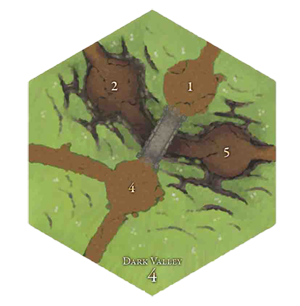
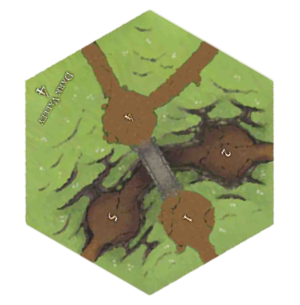
fixed the map
Corrected 2 tiles and created a JLabel array and a function that aligns
the map tiles

diff --git a/Code/src/View/GUI.java b/Code/src/View/GUI.java
@@ -33,6 +33,8 @@ public class GUI implements MouseListener{
 	public static JLabel L_oak_woods = new JLabel();
 	public static JLabel L_bad_valley = new JLabel();
 	public static JLabel L_borderland = new JLabel();
+	public JLabel[] mapTiles;
+	int tileCount;
 	
 	final int x = 125;
 	final int y = 215;
@@ -49,28 +51,39 @@ public class GUI implements MouseListener{
 	//constructor, called in player.java
 	public GUI()
 	{
-		Dimension screenSize = Toolkit.getDefaultToolkit().getScreenSize();
-		ImageIcon cliff = new ImageIcon("res/tiles/cliff.png");
-		ImageIcon ledge = new ImageIcon("res/tiles/ledges.png");
-		ImageIcon crag = new ImageIcon("res/tiles/crag.png");
-		ImageIcon evil_valley = new ImageIcon("res/tiles/evil_valley.png");
-		ImageIcon high_pass = new ImageIcon("res/tiles/high_pass.png");
-		ImageIcon cavern = new ImageIcon("res/tiles/cavern.png");
-		ImageIcon mountain = new ImageIcon("res/tiles/mountain.png");
-		ImageIcon pine_woods = new ImageIcon("res/tiles/pine_woods.png");
-		ImageIcon caves = new ImageIcon("res/tiles/caves.png");
-		ImageIcon ruins = new ImageIcon("res/tiles/ruins.png");
-		ImageIcon linden_woods = new ImageIcon("res/tiles/linden_woods.png");
-		ImageIcon awful_valley = new ImageIcon("res/tiles/awful_valley.png");
-		ImageIcon nut_woods = new ImageIcon("res/tiles/nut_woods.png");
-		ImageIcon curst_valley = new ImageIcon("res/tiles/curst_valley.png");
-		ImageIcon dark_valley = new ImageIcon("res/tiles/dark_valley.png");
-		ImageIcon deep_woods = new ImageIcon("res/tiles/deep_woods.png");
-		ImageIcon maple_woods = new ImageIcon("res/tiles/maple_woods.png");
-		ImageIcon oak_woods = new ImageIcon("res/tiles/oak_woods.png");
-		ImageIcon bad_valley = new ImageIcon("res/tiles/oak_woods.png");
-		ImageIcon borderland = new ImageIcon("res/tiles/borderland.png");
+		tileCount = 0;
+		mapTiles = new JLabel[20];
+		//1st row
+		tileBuilder("res/tiles/cliff.png", 2, 0);
+		//second row
+		tileBuilder("res/tiles/evil_valley.png", 1, 1);
+		tileBuilder("res/tiles/ledges.png", 3, 1);
+		tileBuilder("res/tiles/crag.png", 5, 1);
+		tileBuilder("res/tiles/dark_valley.png", 7, 1);
+		//third row
+		tileBuilder("res/tiles/high_pass.png", 0, 2);
+		tileBuilder("res/tiles/borderland.png", 2, 2);
+		tileBuilder("res/tiles/oak_woods.png", 4, 2);
+		tileBuilder("res/tiles/deep_woods.png", 6, 2);
+		tileBuilder("res/tiles/curst_valley.png", 8, 2);
+		//forth row
+		tileBuilder("res/tiles/cavern.png", 1, 3);
+		tileBuilder("res/tiles/bad_valley.png", 3, 3);
+		tileBuilder("res/tiles/maple_woods.png", 5, 3);
+		tileBuilder("res/tiles/nut_woods.png", 7, 3);
+		//fifth row
+		tileBuilder("res/tiles/mountain.png", 2, 4);
+		tileBuilder("res/tiles/caves.png", 4, 4);
+		tileBuilder("res/tiles/ruins.png", 6, 4);
+		tileBuilder("res/tiles/awful_valley.png", 8, 4);
 		
+		//sixth row
+		tileBuilder("res/tiles/pine_woods.png", 3, 5);
+		tileBuilder("res/tiles/linden_woods.png", 7, 5);
+		
+		
+		
+		Dimension screenSize = Toolkit.getDefaultToolkit().getScreenSize();
 		
 		MainWindow.setBackground(Color.LIGHT_GRAY);
 		MainWindow.getContentPane().setLayout(null);
@@ -95,149 +108,20 @@ public class GUI implements MouseListener{
 		Map.setLayout(null);
 		
 		Map.setBackground(Color.white);
-		
-		L_cliff.setIcon(cliff);
-		L_cliff.setLocation(x*2,0);
-		L_cliff.setSize(tileX, tileY);
-		L_cliff.setVisible(true);
-		L_cliff.addMouseListener(this);
-		Map.add(L_cliff);
-		
-		L_ledge.setIcon(ledge);
-		L_ledge.setLocation(x*3,y);
-		L_ledge.setSize(tileX, tileY);
-		L_ledge.addMouseListener(this);
-		L_ledge.setVisible(true);
-		Map.add(L_ledge);
-		
-		L_crag.setIcon(crag);
-		L_crag.setLocation(x*5,y);
-		L_crag.setSize(tileX, tileY);
-		L_crag.addMouseListener(this);
-		L_crag.setVisible(true);
-		Map.add(L_crag);
-		
-		L_evil_valley.setIcon(evil_valley);
-		L_evil_valley.setLocation(x,y);
-		L_evil_valley.setSize(tileX, tileY);
-		L_evil_valley.addMouseListener(this);
-		L_evil_valley.setVisible(true);
-		Map.add(L_evil_valley);
-		
-		L_high_pass.setIcon(high_pass);
-		L_high_pass.setLocation(0,y*2);
-		L_high_pass.setSize(tileX, tileY);
-		L_high_pass.setVisible(true);
-		L_high_pass.addMouseListener(this);
-		Map.add(L_high_pass);
-		
-		L_cavern.setIcon(cavern);
-		L_cavern.setLocation(x,y*3);
-		L_cavern.setSize(tileX, tileY);
-		L_cavern.setVisible(true);
-		L_cavern.addMouseListener(this);
-		Map.add(L_cavern);
-		
-		L_mountain.setIcon(mountain);
-		L_mountain.setLocation(x*2,y*4);
-		L_mountain.setSize(tileX, tileY);
-		L_mountain.setVisible(true);
-		L_mountain.addMouseListener(this);
-		Map.add(L_mountain);
-		
-		L_pine_woods.setIcon(pine_woods);
-		L_pine_woods.setLocation(x*3,y*5);
-		L_pine_woods.setSize(tileX, tileY);
-		L_pine_woods.setVisible(true);
-		L_pine_woods.addMouseListener(this);
-		Map.add(L_pine_woods);
-		
-		L_caves.setIcon(caves);
-		L_caves.setLocation(x*4,y*4);
-		L_caves.setSize(tileX, tileY);
-		L_caves.setVisible(true);
-		L_caves.addMouseListener(this);
-		Map.add(L_caves);
-		
-		L_ruins.setIcon(ruins);
-		L_ruins.setLocation(x*6,y*4);
-		L_ruins.setSize(tileX, tileY);
-		L_ruins.setVisible(true);
-		L_ruins.addMouseListener(this);
-		Map.add(L_ruins);
-		
-		L_linden_woods.setIcon(linden_woods);
-		L_linden_woods.setLocation(x*7,y*5);
-		L_linden_woods.setSize(tileX, tileY);
-		L_linden_woods.setVisible(true);
-		L_linden_woods.addMouseListener(this);
-		Map.add(L_linden_woods);
-		
-		L_awful_valley.setIcon(awful_valley);
-		L_awful_valley.setLocation(x*8,y*4);
-		L_awful_valley.setSize(tileX, tileY);
-		L_awful_valley.setVisible(true);
-		L_awful_valley.addMouseListener(this);
-		Map.add(L_awful_valley);
-		
-		L_nut_woods.setIcon(nut_woods);
-		L_nut_woods.setLocation(x*7,y*3);
-		L_nut_woods.setSize(tileX, tileY);
-		L_nut_woods.setVisible(true);
-		L_nut_woods.addMouseListener(this);
-		Map.add(L_nut_woods);
-		
-		L_curst_valley.setIcon(curst_valley);
-		L_curst_valley.setLocation(x*8,y*2);
-		L_curst_valley.setSize(tileX, tileY);
-		L_curst_valley.setVisible(true);
-		L_curst_valley.addMouseListener(this);
-		Map.add(L_curst_valley);
-		
-		L_dark_valley.setIcon(dark_valley);
-		L_dark_valley.setLocation(x*7,y);
-		L_dark_valley.setSize(tileX, tileY);
-		L_dark_valley.setVisible(true);
-		L_dark_valley.addMouseListener(this);
-		Map.add(L_dark_valley);
-		
-		L_deep_woods.setIcon(deep_woods);
-		L_deep_woods.setLocation(x*6,y*2);
-		L_deep_woods.setSize(tileX, tileY);
-		L_deep_woods.setVisible(true);
-		L_deep_woods.addMouseListener(this);
-		Map.add(L_deep_woods);
-		
-		L_oak_woods.setIcon(oak_woods);
-		L_oak_woods.setLocation(x*4,y*2);
-		L_oak_woods.setSize(tileX, tileY);
-		L_oak_woods.setVisible(true);
-		L_oak_woods.addMouseListener(this);
-		Map.add(L_oak_woods);
-		
-		L_borderland.setIcon(borderland);
-		L_borderland.setLocation(x*2,y*2);
-		L_borderland.setSize(tileX, tileY);
-		L_borderland.setVisible(true);
-		L_borderland.addMouseListener(this);
-		Map.add(L_borderland);
-		
-		L_maple_woods.setIcon(maple_woods);
-		L_maple_woods.setLocation(x*5,y*3);
-		L_maple_woods.setSize(tileX, tileY);
-		L_maple_woods.setVisible(true);
-		L_maple_woods.addMouseListener(this);
-		Map.add(L_maple_woods);
-		
-		L_bad_valley.setIcon(bad_valley);
-		L_bad_valley.setLocation(x*3,y*3);
-		L_bad_valley.setSize(tileX, tileY);
-		L_bad_valley.setVisible(true);
-		L_bad_valley.addMouseListener(this);
-		Map.add(L_bad_valley);
 	}
 	
-
+	public void tileBuilder(String path, int xOffset, int yOffset){
+		ImageIcon icon = new ImageIcon(path);
+		JLabel label = new JLabel();
+		label.setIcon(icon);
+		label.setLocation(x*xOffset,y*yOffset);
+		label.setSize(tileX, tileY);
+		label.setVisible(true);
+		label.addMouseListener(this);
+		mapTiles[tileCount++] = label;
+		Map.add(label);
+	}
+	
 
 	@Override
 	public void mouseClicked(MouseEvent e) {
